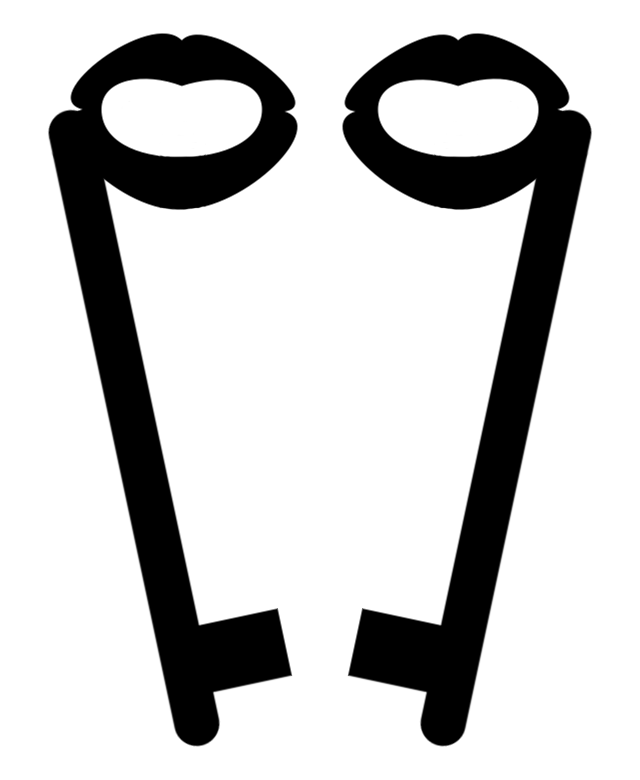
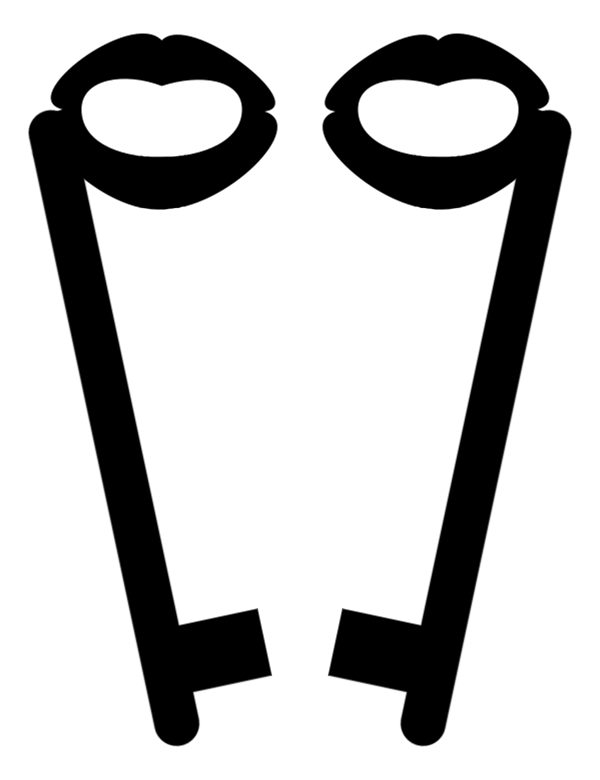
implemented eye and head movements

diff --git a/src/index.js b/src/index.js
@@ -1,17 +1,19 @@
 import Phaser from 'phaser';
+
 import lipsPNG from './assets/lips.png';
 import lipsJSON from './assets/lips.json';
-import config from './config.json';
-import headParts from './headParts.json';
-import lipAnim from './lipAnim.json';
 import facePNG from './assets/KeyFace 12.png';
 import eyesPNG from './assets/KeyFace pupils.png';
 
-// const inputX = document.querySelector('#x');
-// const inputY = document.querySelector('#y');
-// const inputScale = document.querySelector('#scale');
-//const inputEyes = document.querySelector('#eyes');
-let head;
+import config from './param/config.json';
+import headParts from './param/headParts.json';
+import lipAnim from './param/lipAnim.json';
+import behavior from './param/behavior.json';
+
+const MAX_DIST = Phaser.Math.Distance.Between(config.width, config.height, 0, 0) / 2;
+
+// const input = document.querySelector('input');
+// input.value = 10;
 
 class MyGame extends Phaser.Scene {
   constructor() {
@@ -24,13 +26,14 @@ class MyGame extends Phaser.Scene {
   }
   create() {
     const face = this.add.image(0, 0, 'face');
-    const eyes = this.add.image(0, headParts.eyes.y, 'eyes');
+    const eyes = this.add.image(0, headParts.eyes.defaultY, 'eyes');
+    const eyeContainer = this.add.container(0, headParts.eyes.lineY, eyes);
     const lips = this.add.sprite(0, headParts.lips.y, 'lips', lipAnim.default[0]);
-    head = this.add.container(config.width / 2 + config.head.x, config.height / 2 + config.head.y, [
-      face,
-      eyes,
-      lips,
-    ]);
+    const head = this.add.container(
+      config.width / 2 + config.head.x,
+      config.height / 2 + config.head.y,
+      [face, eyeContainer, lips],
+    );
     head.scale = config.head.scale;
 
     Object.keys(lipAnim).forEach((key, i) => {
@@ -59,19 +62,92 @@ class MyGame extends Phaser.Scene {
     this.input.on('gameobjectout', (p, target) => {
       target.scale = 1;
     });
-    // this.input.on('gameobjectup', (p, target) => {
-    //   if (!target.text && !lipAnim[target.text]) return;
-    //   lips.play(target.text);
-    //   //console.log(target);
-    // });
-    //this.input.on('pointerup', () => lips.play('lipsA'));
+
+    if (config.debug) {
+      const eyeLine = this.add.line(0, headParts.eyes.lineY, 0, 0, face.width, 0, 0xff0000);
+      const lineCenter = this.add.line(0, 0, 0, 0, 0, face.height, 0xff0000);
+      const eyeLeft = this.add.circle(
+        -headParts.eyes.aperture / 2,
+        headParts.eyes.lineY,
+        headParts.eyes.maxRadius,
+      );
+      eyeLeft.isFilled = false;
+      eyeLeft.isStroked = true;
+      eyeLeft.setStrokeStyle(2, 0xff0000);
+
+      const eyeLeftGhost = this.add.circle(
+        -headParts.eyes.aperture / 2,
+        headParts.eyes.lineY,
+        headParts.eyes.maxRadius + headParts.eyes.pupilHeight / 2,
+      );
+      eyeLeftGhost.isFilled = false;
+      eyeLeftGhost.isStroked = true;
+      eyeLeftGhost.setStrokeStyle(2, 0xff0000, 0.7);
+
+      const lineLeft = this.add.line(
+        -headParts.eyes.aperture / 2,
+        headParts.eyes.lineY,
+        0,
+        0,
+        0,
+        headParts.eyes.pupilHeight,
+        0xff0000,
+      );
+      const lineRight = this.add.line(
+        headParts.eyes.aperture / 2,
+        headParts.eyes.lineY,
+        0,
+        0,
+        0,
+        headParts.eyes.pupilHeight,
+        0xff0000,
+      );
+      head.add([eyeLine, lineCenter, lineLeft, eyeLeft, eyeLeftGhost, lineRight]);
+    }
+
+    const lineOfSight = new Phaser.Geom.Line();
+
+    const graphics = this.add.graphics();
+    this.input.on('pointermove', pointer => {
+      let angleHead = Phaser.Math.Angle.Between(pointer.x, pointer.y, head.x, head.y);
+      if (angleHead > Math.PI / 4) angleHead = Math.PI / 2 - angleHead;
+      if (angleHead < -Math.PI / 4) angleHead = -Math.PI / 2 - angleHead;
+      if (angleHead > Math.PI / 4) angleHead = Math.PI / 2 - angleHead;
+      head.rotation = angleHead * behavior.turnCoeff;
+
+      const distHead = Phaser.Math.Distance.Between(pointer.x, pointer.y, head.x, head.y);
+      head.scale = config.head.scale - (1 - distHead / MAX_DIST) * behavior.scaleCoeff;
+
+      const eyeD = head.scale * headParts.eyes.lineY;
+      const eyeX = head.x - eyeD * Math.sin(head.rotation);
+      const eyeY = head.y + eyeD * Math.cos(head.rotation);
+
+      const angleEye = Phaser.Math.Angle.Between(pointer.x, pointer.y, eyeX, eyeY) - head.rotation;
+      const distEye = Phaser.Math.Distance.Between(pointer.x, pointer.y, eyeX, eyeY);
+      lineOfSight.x1 = pointer.x;
+      lineOfSight.y1 = pointer.y;
+      lineOfSight.x2 = eyeX;
+      lineOfSight.y2 = eyeY;
+
+      let distInEye = headParts.eyes.distCoeff * distEye;
+      if (distInEye > headParts.eyes.maxRadius) {
+        distInEye = headParts.eyes.maxRadius;
+      }
+
+      eyes.x = -distInEye * Math.cos(angleEye);
+      eyes.y = -distInEye * Math.sin(angleEye);
+
+      if (config.debug) {
+        graphics.clear();
+        graphics.strokeLineShape(lineOfSight);
+      }
+    });
+    this.input.on('gameout', () => {
+      if (config.debug) graphics.clear();
+      eyes.x = 0;
+      eyes.y = headParts.eyes.defaultY;
+    });
   }
-  // update() {
-  //   head.x = config.width / 2 + Number(inputX.value);
-  //   head.y = config.height / 2 + Number(inputY.value);
-  //   head.scale = Number(inputScale.value) / 100;
-  //   //eyes.y = Number(inputEyes.value);
-  // }
 }
 
 const game = new Phaser.Game({

diff --git a/index.html b/index.html
@@ -6,9 +6,9 @@
   <body>
     <h1>Talking lips</h1>
     <div id="game"></div>
-    <!-- <label>x:<input id="x" type="number" value="0" /></label>
-    <label>y:<input id="y" type="number" value="0" /></label>
-    <label>scale:<input id="scale" type="number" value="50" />%</label> -->
+    <!-- <label>x:<input id="x" type="number" value="0" /></label>-->
+    <!-- <label><input type="number" value="0" /></label> -->
+    <!--<label>scale:<input id="scale" type="number" value="50" />%</label> -->
     <!-- <br />
     <label>eyes:<input id="eyes" type="number" value="0" /></label> -->
   </body>
